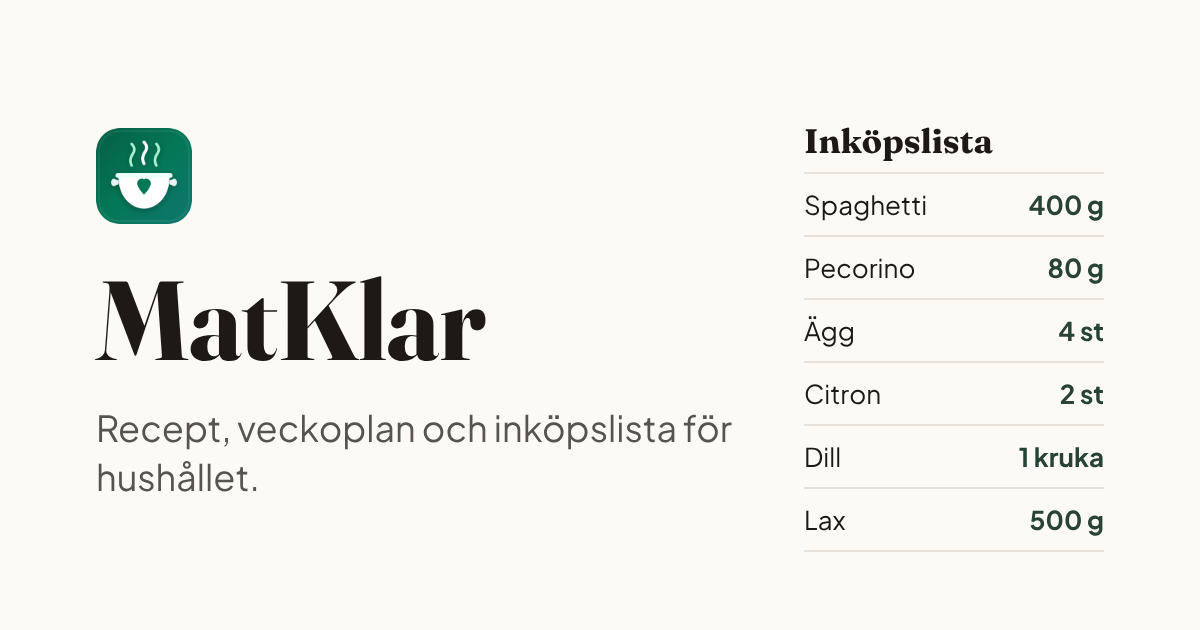
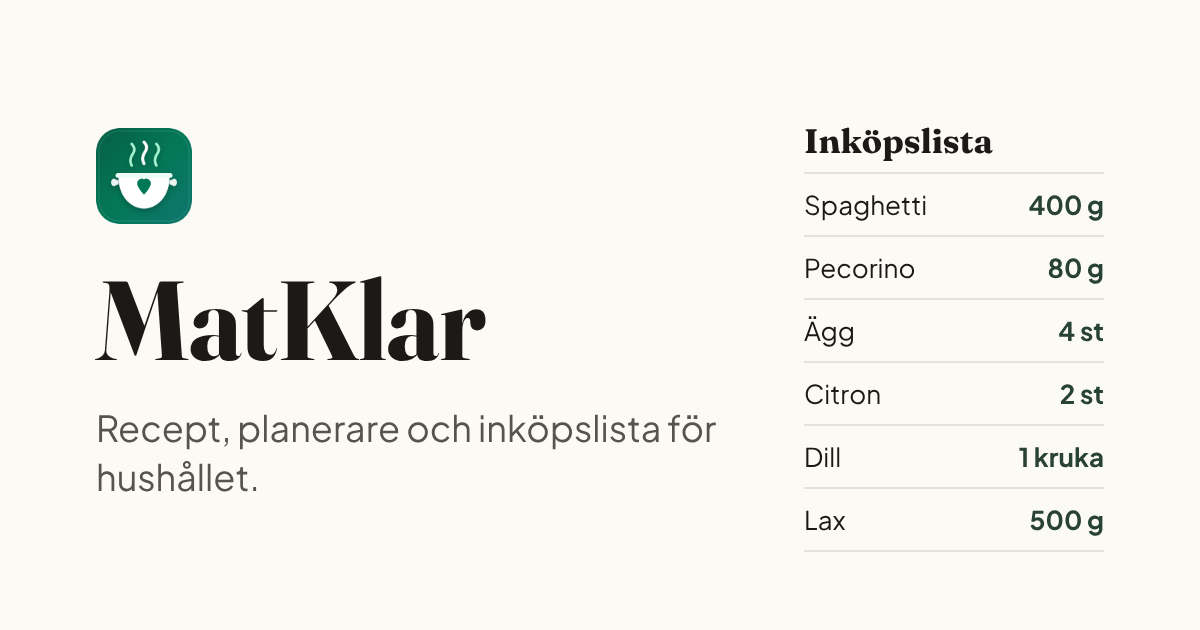
Veckoplan heter Planerare
Claude-Session: https://claude.ai/code/session_01PN5wJfKNoWFwyy9C9Cg6C1

Changed region(s): [[0.185, 0.6635, 0.6167, 0.7238]]

diff --git a/src/components/settings/SettingsView.tsx b/src/components/settings/SettingsView.tsx
@@ -299,7 +299,7 @@ export const SettingsView: React.FC = () => {
           <div className="bg-white rounded-2xl border border-[#EBE7DF] p-4 space-y-3 mt-2">
             <div>
               <h2 className="font-serif text-lg font-bold text-stone-900">Hushåll</h2>
-              <p className="text-sm text-stone-600 mt-0.5">Dela recept, veckoplan och inköpslista med dem du bor med.</p>
+              <p className="text-sm text-stone-600 mt-0.5">Dela recept, planerare och inköpslista med dem du bor med.</p>
             </div>
             <div className="grid grid-cols-2 gap-2">
               <button
@@ -509,7 +509,7 @@ export const SettingsView: React.FC = () => {
               />
               {confirming === 'reset' && (
                 <Confirm
-                  text="Recepten byts mot demorecepten, och veckoplanen och inköpslistan töms på den här telefonen."
+                  text="Recepten byts mot demorecepten, och planeraren och inköpslistan töms på den här telefonen."
                   confirmLabel="Återställ"
                   onCancel={() => setConfirming(null)}
                   onConfirm={() => {
@@ -533,9 +533,9 @@ export const SettingsView: React.FC = () => {
                   text={
                     household && isLiveSupabase
                       ? isHouseholdAdmin
-                        ? `${household.name} tas bort ur databasen med alla recept, veckoplaner och inköpslistan, för alla medlemmar. Sedan raderas allt på den här telefonen. Det går inte att ångra.`
+                        ? `${household.name} tas bort ur databasen med alla recept, planerade måltider och inköpslistan, för alla medlemmar. Sedan raderas allt på den här telefonen. Det går inte att ångra.`
                         : `Du tas bort ur ${household.name} i databasen, och allt på den här telefonen raderas. Hushållets recept finns kvar hos de andra. Det går inte att ångra.`
-                      : 'Recept, veckoplan, inköpslista och inställningar raderas från den här telefonen. Det går inte att ångra.'
+                      : 'Recept, planerare, inköpslista och inställningar raderas från den här telefonen. Det går inte att ångra.'
                   }
                   confirmLabel={erasing ? 'Raderar' : 'Radera allt'}
                   onCancel={() => setConfirming(null)}

diff --git a/src/components/layout/BottomNav.tsx b/src/components/layout/BottomNav.tsx
@@ -137,7 +137,7 @@ export const BottomNav: React.FC<BottomNavProps> = ({ onAddRecipeClick, onAddSho
         {/* See-through background with blur, cut to the menu's shape: a low arc on top that
             rises about 14 px towards the middle. It is a layer of its own so the plus button,
             which reaches a little above the arc, is not cut off.
-            The inner buttons (Veckoplan, Inköp) sit about 6 px higher than the outer ones,
+            The inner buttons (Planerare, Inköp) sit about 6 px higher than the outer ones,
             which is how much higher the arc is at their place, so the row follows the curve. */}
         <div
           aria-hidden="true"
@@ -181,7 +181,7 @@ export const BottomNav: React.FC<BottomNavProps> = ({ onAddRecipeClick, onAddSho
             <span className="text-[11px] mt-1 font-semibold leading-tight">Recept</span>
           </button>
 
-          {/* Veckoplan */}
+          {/* Planerare */}
           <button
             type="button"
             onClick={() => handleTabClick('mealplan')}
@@ -190,14 +190,14 @@ export const BottomNav: React.FC<BottomNavProps> = ({ onAddRecipeClick, onAddSho
                 ? 'text-[#284235] font-bold'
                 : 'text-stone-500 hover:text-stone-800'
             }`}
-            aria-label="Veckoplan"
+            aria-label="Planerare"
           >
             <CalendarDays
               className={`w-5 h-5 transition-transform ${
                 activeTab === 'mealplan' && !selectedRecipe ? 'scale-110 stroke-[2.3]' : 'stroke-[1.6]'
               }`}
             />
-            <span className="text-[11px] mt-1 font-semibold leading-tight">Veckoplan</span>
+            <span className="text-[11px] mt-1 font-semibold leading-tight">Planerare</span>
           </button>
 
           {/* Prominent Center Action Button */}

diff --git a/src/components/recipes/RecipeDetail.tsx b/src/components/recipes/RecipeDetail.tsx
@@ -797,7 +797,7 @@ export const RecipeDetail: React.FC<RecipeDetailProps> = ({ recipe: initialRecip
             className="w-full py-3.5 px-4 rounded-2xl bg-white border border-[#EBE7DF] hover:bg-stone-50 active:scale-[0.98] text-stone-800 font-semibold text-xs flex items-center justify-center gap-2 transition-all touch-manipulation shadow-xs"
             style={{ minHeight: '48px' }}
           >
-            <span>Lägg till i veckoplanen</span>
+            <span>Lägg till i planeraren</span>
           </button>
 
           <button
@@ -861,7 +861,7 @@ export const RecipeDetail: React.FC<RecipeDetailProps> = ({ recipe: initialRecip
           <div className="bg-white w-full max-w-md rounded-t-3xl sm:rounded-3xl p-5 shadow-2xl space-y-4 max-h-[85vh] overflow-y-auto">
             <div className="flex items-center justify-between">
               <h3 className="font-serif font-bold text-lg text-stone-900">
-                Lägg till i veckoplanen
+                Lägg till i planeraren
               </h3>
               <button
                 type="button"

diff --git a/index.html b/index.html
@@ -14,13 +14,13 @@
         }
       } catch (e) {}
     </script>
-    <meta name="description" content="Recept, veckoplan och inköpslista för hushållet." />
+    <meta name="description" content="Recept, planerare och inköpslista för hushållet." />
 
     <!-- What a chat or social app shows when a link to MatKlar is shared -->
     <meta property="og:type" content="website" />
     <meta property="og:site_name" content="MatKlar" />
     <meta property="og:title" content="MatKlar" />
-    <meta property="og:description" content="Recept, veckoplan och inköpslista för hushållet." />
+    <meta property="og:description" content="Recept, planerare och inköpslista för hushållet." />
     <meta property="og:url" content="https://matklar.vercel.app/" />
     <meta property="og:image" content="https://matklar.vercel.app/og.png" />
     <meta property="og:image:width" content="1200" />

diff --git a/src/components/mealplan/MealPlanView.tsx b/src/components/mealplan/MealPlanView.tsx
@@ -466,7 +466,7 @@ export const MealPlanView: React.FC = () => {
       <div className="green-header sticky top-0 md:static z-20 md:z-auto bg-[#284235]/85 backdrop-blur-xl backdrop-saturate-150 md:bg-[#FCFAF5]/95 md:backdrop-blur-md md:border-b md:border-[#EBE7DF] px-3.5 md:px-6 pt-3 pb-3 shadow-xs">
         <div className="w-full max-w-md md:max-w-5xl lg:max-w-7xl mx-auto">
           {/* Row 1: Week with arrows, and Day / Week view */}
-          <h1 className="sr-only">Veckoplan</h1>
+          <h1 className="sr-only">Planerare</h1>
           <div className="flex items-center justify-between gap-2">
             <div className="flex items-center gap-1 min-w-0">
               <button

diff --git a/src/components/settings/PrivacySheet.tsx b/src/components/settings/PrivacySheet.tsx
@@ -11,7 +11,7 @@ export const PrivacySheet: React.FC<{ onClose: () => void }> = ({ onClose }) => 
 
     <h3 className={h}>Med hushåll</h3>
     <p className={p}>
-      Recept, veckoplan, inköpslista, Hemmet, val av avdelningar, hushållets namn och medlemmarnas namn sparas i
+      Recept, planerare, inköpslista, Hemmet, val av avdelningar, hushållets namn och medlemmarnas namn sparas i
       en databas hos Supabase, så att alla i hushållet ser samma sak. Bilder du laddar upp sparas där också.
       Namnet är det du själv skriver in. Appen frågar inte efter e-post, telefonnummer eller lösenord.
     </p>

diff --git a/src/components/auth/HouseholdShareModal.tsx b/src/components/auth/HouseholdShareModal.tsx
@@ -547,7 +547,7 @@ export const HouseholdShareModal: React.FC<HouseholdShareModalProps> = ({ onClos
                   <ConfirmBox
                     text={
                       isHouseholdAdmin
-                        ? `${household.name} tas bort för alla medlemmar, med recept, veckoplan och inköpslista.`
+                        ? `${household.name} tas bort för alla medlemmar, med recept, planerare och inköpslista.`
                         : `Du lämnar ${household.name}. Du kan gå med igen med koden.`
                     }
                     label={isHouseholdAdmin ? 'Ta bort' : 'Lämna'}

diff --git a/src/components/layout/DesktopNav.tsx b/src/components/layout/DesktopNav.tsx
@@ -91,7 +91,7 @@ export const DesktopNav: React.FC<DesktopNavProps> = ({
             <span>Recept</span>
           </button>
 
-          {/* Veckoplan */}
+          {/* Planerare */}
           <button
             type="button"
             onClick={() => handleTabClick('mealplan')}
@@ -102,7 +102,7 @@ export const DesktopNav: React.FC<DesktopNavProps> = ({
             }`}
           >
             <CalendarDays className="w-4 h-4 stroke-[2] shrink-0" />
-            <span>Veckoplan</span>
+            <span>Planerare</span>
           </button>
 
           {/* Inköp */}

diff --git a/src/components/shopping/ShoppingListView.tsx b/src/components/shopping/ShoppingListView.tsx
@@ -1090,7 +1090,7 @@ export const ShoppingListView: React.FC = () => {
         ) : (
           <div className="py-8 space-y-2">
             <h3 className="font-serif text-lg font-bold text-stone-900">Inköpslistan är tom</h3>
-            <p className="text-sm text-stone-600">Lägg till varor här, eller ingredienser från ett recept eller veckoplanen.</p>
+            <p className="text-sm text-stone-600">Lägg till varor här, eller ingredienser från ett recept eller planeraren.</p>
             <div className="pt-2">
               <button
                 type="button"

diff --git a/src/components/layout/ErrorBoundary.tsx b/src/components/layout/ErrorBoundary.tsx
@@ -25,7 +25,7 @@ export class ErrorBoundary extends React.Component<{ children: React.ReactNode }
       <div className="min-h-[100dvh] bg-[#FCFAF5] font-sans px-6 pt-16 max-w-md mx-auto">
         <h1 className="font-serif font-bold text-2xl text-stone-900">Något gick fel</h1>
         <p className="mt-2 text-base text-stone-600">
-          Appen stötte på ett fel. Dina recept, veckoplanen och inköpslistan finns kvar.
+          Appen stötte på ett fel. Dina recept, planeraren och inköpslistan finns kvar.
         </p>
         <button
           type="button"

diff --git a/src/components/settings/TermsSheet.tsx b/src/components/settings/TermsSheet.tsx
@@ -25,7 +25,7 @@ export const TermsSheet: React.FC<{ onClose: () => void }> = ({ onClose }) => (
 
     <h3 className={h}>Hushållet</h3>
     <p className={p}>
-      Alla med hushållets kod kan se och ändra recept, veckoplan och inköpslista. Ge bara koden till dem du bor
+      Alla med hushållets kod kan se och ändra recept, planerare och inköpslista. Ge bara koden till dem du bor
       med, och byt kod om den kommit i fel händer.
     </p>
 
